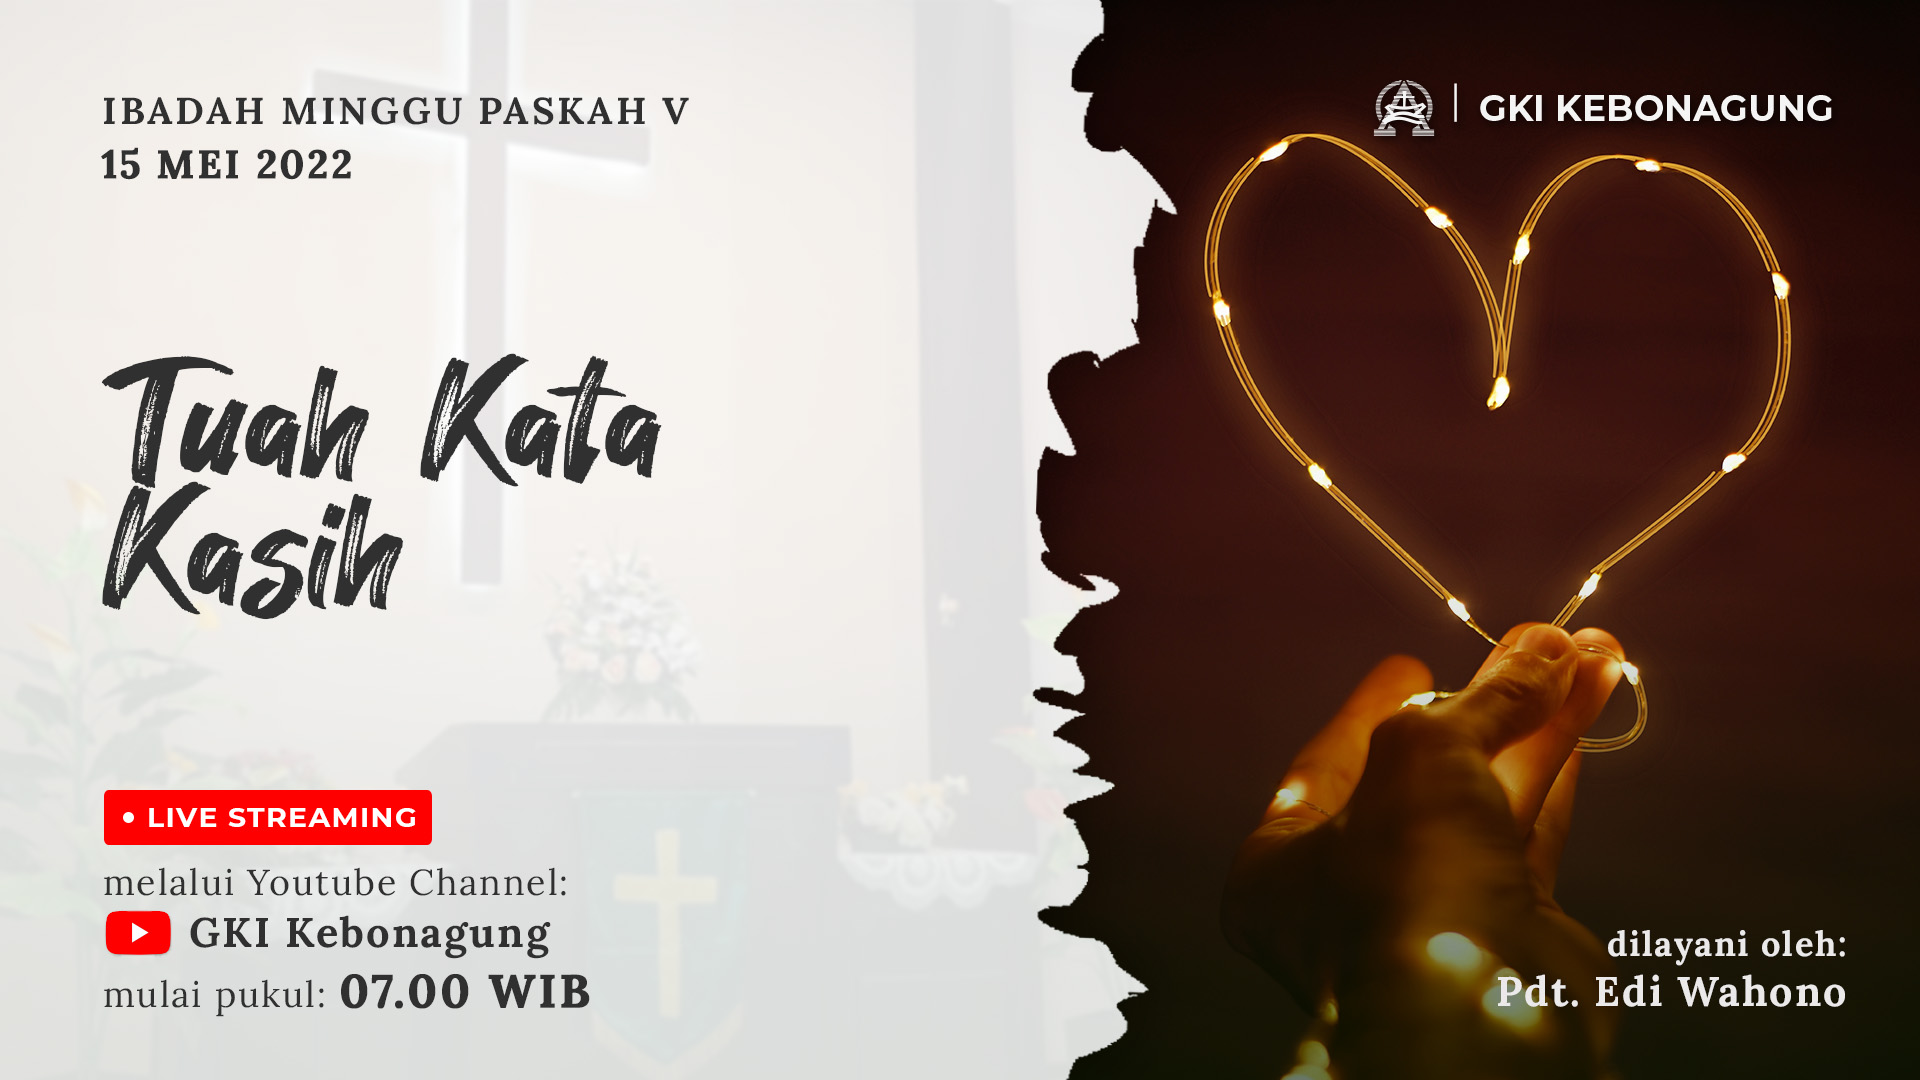
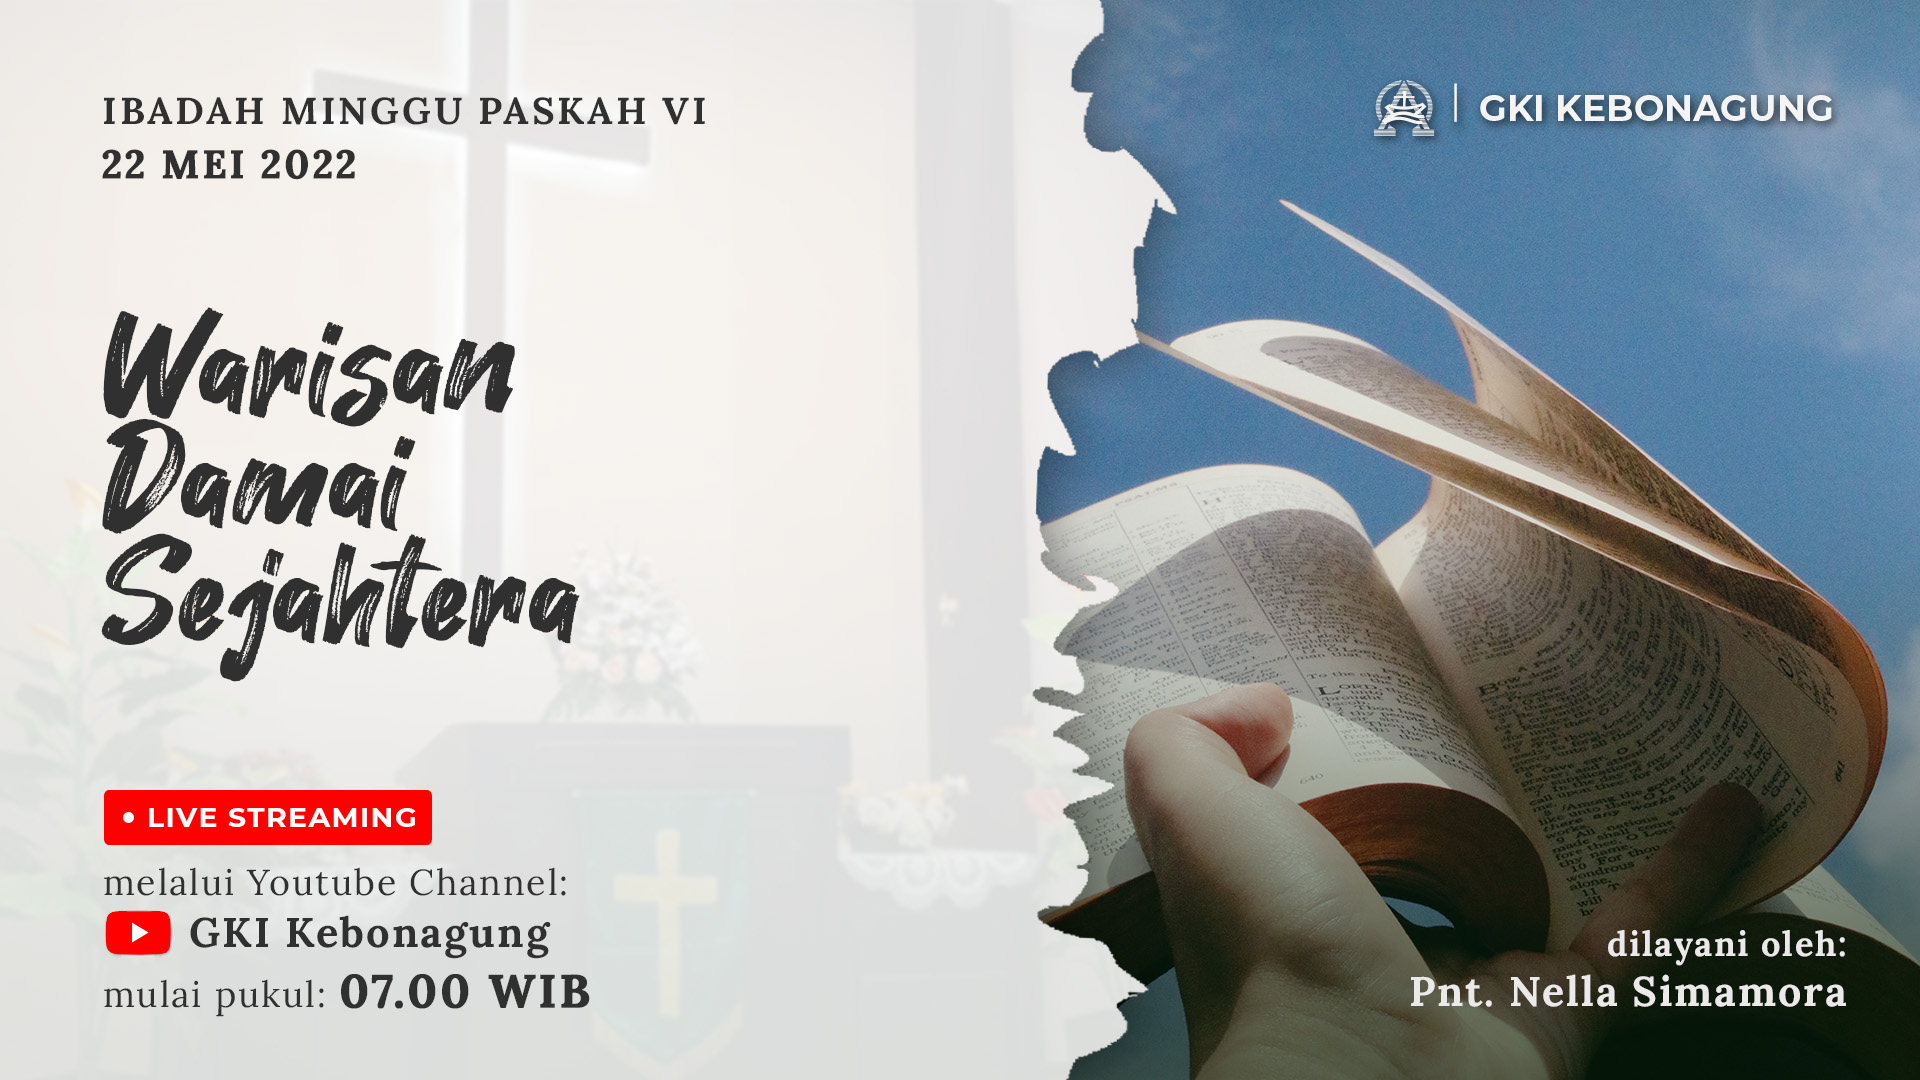
1

diff --git a/application/views/Front/vLandingpage.php b/application/views/Front/vLandingpage.php
@@ -114,18 +114,18 @@
                     <div class="mt-5">
                         <div class="card text-center shadow mx-3">
                             <!-- UBAH -->
-                            <a href="https://youtu.be/vaclbx4CuP8" target="_blank" class="text-decoration-none">
+                            <a href="https://youtu.be/yPwythGpv0E" target="_blank" class="text-decoration-none">
                                 <img src="<?= base_url() ?>front/assets/img/umum.jpg" class="card-img-top">
                             </a>
                             <div class="card-body">
                                 <h4 class="card-title">Ibadah Umum</h4>
                                 <!-- UBAH -->
-                                <p class="card-text">"Tuah Kata Kasih"<br>Minggu, 15 Mei 2022 - 07.00 WIB<br>Pdt. Edi Wahono</p>
+                                <p class="card-text">"Warisan Damai Sejahtera"<br>Minggu, 22 Mei 2022 - 07.00 WIB<br>Pnt. Nella Simamora</p>
                             </div>
                             <div class="card-body">
                                 <!-- UBAH -->
                                 <a href="<?= base_url() ?>Fronts/pilihOnsite" class="btn btn-primary mb-2 px-5 mx-1" style="border-radius: 10rem; font-size: 11pt">Onsite</a>
-                                <a href="https://youtu.be/vaclbx4CuP8" target="_blank" class="btn btn-primary mb-2 px-5 mx-1" style="border-radius: 10rem; font-size: 11pt">Online</a>
+                                <a href="https://youtu.be/yPwythGpv0E" target="_blank" class="btn btn-primary mb-2 px-5 mx-1" style="border-radius: 10rem; font-size: 11pt">Online</a>
                             </div>
                         </div>
                     </div>
